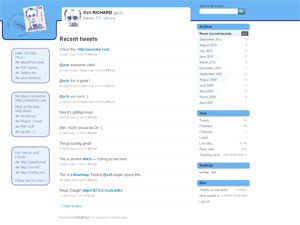
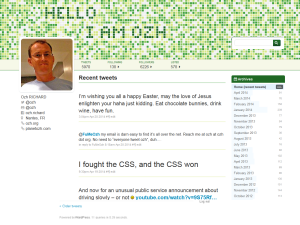
More tweaks. Left to do: responsiveness.

diff --git a/style.css b/style.css
@@ -40,12 +40,10 @@ a img {
     background-size: 100% auto;
     width:100%;
     height:250px;
-    box-shadow:0 0px 2px rgba(0, 0, 0, 0) inset, 0 0px 5px rgba(0, 0, 0, 0.8) inset;
 }
 
 #container {
-  margin:-97px auto 0;
-  padding-top:15px;
+  margin:0 auto;
   max-width:1120px;
 }
 
@@ -60,11 +58,12 @@ a img {
 #sidebar {
   float:right;
   width:220px;
+  margin-top:-140px;
 }
   
 #tweets {
   margin-left: 260px;
-  margin-top: 100px;
+  margin-top: 20px;
 }
 
 #footer {
@@ -93,15 +92,60 @@ a img {
     background:none;
 }
 
-#header:hover {
-    box-shadow:0 0px 2px rgba(0, 0, 0, 0) inset, 0 0px 8px rgba(0, 0, 0, 0.8) inset;
+/* Stat header
+----------------------------------------------- */
+
+#stats-wrap {
+  width:100%;
+  border-bottom:1px solid #44A340;
+  background:#EEF2D6;
+  background:rgba(239, 242, 214, 0.55);
+  height:45px;
+  box-shadow:0 0px 2px rgba(0, 0, 0, 0) inset, 0 0px 1px rgba(0, 0, 0, 0.8) inset;
+}
+
+#stats-header {
+  margin:0 auto;
+  max-width:860px;
+  padding:1px 0 0 260px;
+  list-style:none;  
+  overflow:hidden;
+}
+
+#stats-header li {
+    float:left;
+    margin-right:60px;
+    margin-left:10px;
+    text-align:left;
+}
+
+#stats-header li span {
+    display:block;
+}
+
+#stats-header li span.what {
+    text-transform:uppercase;
+    font-size:11px;
+    color:#1E6823;
+    margin-bottom:-3px;
+}
+
+#stats-header li span.much {
+    text-align:center;
+    font-size:16px;
+}
+
+
+#stats-header li span.much a {
+    color: inherit;
+    padding: 0 3px;
 }
 
 /* User
 ----------------------------------------------- */
 #user {
   width:230px;
-  margin:0px;
+  margin:-150px 0 0;
   float:left;
   line-height:22px;
   padding:10px 10px;
@@ -120,9 +164,9 @@ a img {
     border-radius:10px;
     box-shadow:0 1px 1px rgba(136, 153, 166, 0.35);
     -webkit-transition-duration: 0.8s;
-    -moz-transition-duration: 0.8s;
+    -moz-transition-duration: 0.4s;
     -o-transition-duration: 0.8s;
-    transition-duration: 0.8s;
+    transition-duration: 0.4s;
     -webkit-transition-property: -webkit-transform;
     -moz-transition-property: -moz-transform;
     -o-transition-property: -o-transform;
@@ -135,7 +179,6 @@ a img {
     -moz-transform:rotate(-4deg);
     -o-transform:rotate(-4deg);
 }
-
 
 #user .avatar {
   width:200px;
@@ -163,6 +206,12 @@ a img {
     width:20px;
 }
 
+#user-info li:hover i.fa {
+    color:#aaa;
+    width:17px;
+    padding-left:3px;
+}
+
 #user-realname {
   font-size:24px;
   font-weight:bolder;
@@ -175,11 +224,11 @@ a img {
 #tweets h2 {
   margin:0 0 10px;
   padding-bottom:10px;
-  border-bottom:3px solid #D6E685;
+  border-bottom:1px solid #44A340;
   font-size:24px;
 }
 #tweets .post {
-  margin:20px 0px;
+  margin:40px 0px;
   padding-bottom:10px;
   border-bottom:1px solid #D6E685;
 }
@@ -196,15 +245,6 @@ a img {
   font-size:12px;
   color:#999;
 }
-body.single #tweets .tweet {
-  font:24px;
-  line-height:26px;
-}
-body.single #tweets .post .meta, body.single #tweets .post .meta a {
-  font-size:15px;
-  line-height:26px;
-  padding-top:10px;
-}
 .post:hover .meta a {
   text-decoration:underline;
 }
@@ -212,11 +252,53 @@ body.single #tweets .post .meta, body.single #tweets .post .meta a {
   color:#666;
 }
 
+/* Tweet custom styles depending on content
+----------------------------------------------- */
+.tweet.short.is_no_reply > p {
+    font-size:32px;
+    line-height:40px;
+}
+.tweet.medium.is_no_reply > p {
+    font-size:26px;
+    line-height:32px;
+}
+.tweet.long.is_no_reply > p {
+    font-size:22px;
+    line-height:30px;
+}
+body.single #tweets .tweet {
+  font-size:24px;
+  line-height:26px;
+}
+body.single #tweets .post .meta, body.single #tweets .post .meta a {
+  font-size:15px;
+  line-height:26px;
+  padding-top:10px;
+}
+#tweets span.embed_image_yes {
+    border: 1px solid #8CC665;
+    border-radius: 5px;
+    display: block;
+    padding: 3px;
+    width: 90%;
+    line-height:10px;
+}
+#tweets span.embed_image_yes a:hover {
+    background:none;
+}
+#tweets span.embed_image_yes img {
+    border-radius: 5px;
+    width: 100%;
+}
+#tweets .link_untco_image {
+    display:none;
+}
+
 
 /* Searchform
 ----------------------------------------------- */
 #searchform {
-  margin:0 0 50px;
+  margin:0 0 110px;
   padding:12px 13px;
   border-radius:5px;
   background:white;
@@ -249,7 +331,7 @@ body.single #tweets .post .meta, body.single #tweets .post .meta a {
 }
 
 #searchform:hover .btn {
-    background-color:#8CC665;
+  background-color:#8CC665;
 }
 
 /* Nav
@@ -261,14 +343,15 @@ body.single #tweets .post .meta, body.single #tweets .post .meta a {
 }
 #nav h2 {
 	margin:0;
-	font-size:13px;
+	font-size:15px;
+    line-height:29px;
 	padding:1px 4px 1px 10px;
-	margin-top:20px;
-	margin-bottom:5px;
-	border-radius:5px;
+	margin:20px 0px 5px;
+	border-top-left-radius:5px;
+	border-top-right-radius:5px;
 	color:#fff;
 	background:#1E6823;
-	box-shadow: 2px 2px 3px #aaa;
+    width:210px;
 }
 #nav ul {
 	margin:0;
@@ -328,6 +411,10 @@ body.single #tweets .post .meta, body.single #tweets .post .meta a {
 	background:transparent url("img/li-bg.png") right center no-repeat;
 }
 
+#bleh li a:hover {
+    background:none;
+}
+
 /* Misc
 ----------------------------------------------- */
 .pagination {
@@ -352,7 +439,6 @@ body.single #tweets .post .meta, body.single #tweets .post .meta a {
   font-size:1px;
   line-height:1px;
 }
-
 
 /* Footer
 ----------------------------------------------- */

diff --git a/header.php b/header.php
@@ -13,6 +13,15 @@
 <a href="<?php bloginfo('url'); ?>"></a>
 </div>
 
+<div id="stats-wrap">
+    <ul id="stats-header">
+        <li><span class="what">tweets</span><span class="much"><?php do_action('ozh_ta_total_tweets'); ?></span></li>
+        <li><span class="what">following</span><span class="much"><?php do_action('ozh_ta_total_following'); ?> <a href="https://twitter.com/ozh/following"><i class="fa fa-caret-right"></i></a></span></li>
+        <li><span class="what">followers</span><span class="much"><?php do_action('ozh_ta_total_followers'); ?> <a href="https://twitter.com/ozh/followers"><i class="fa fa-caret-right"></i></a></span></li>
+        <li><span class="what">listed</span><span class="much"><?php do_action('ozh_ta_total_listed'); ?> <a href="https://twitter.com/ozh/memberships"><i class="fa fa-caret-right"></i></a></span></li>
+    </ul>
+</div>
+
 <!-- !BEGIN #container -->
 <div id="container">
 
@@ -26,12 +35,13 @@
     </div>
     <div id="user-info">
         <ul>
-            <li id="user-realname">Ozh RICHARD</li>
-            <li id="username"><i class="fa fa-twitter"></i>@<a href="https://twitter.com/ozh">ozh</a></li>
-            <li id="username"><i class="fa fa-github-alt"></i>@<a href="https://github.com/ozh">ozh</a></li>
-            <li id="username"><i class="fa fa-facebook-square"></i><a href="https://www.facebook.com/ozh.richard">ozh.richard</a></li>
-            <li id="user-loc"><i class="fa fa-map-marker"></i>Nantes, FR</li>
-            <li id="user-url"><i class="fa fa-link"></i><a href="http://ozh.org">ozh.org</a></li>
+            <li class="user-realname">Ozh RICHARD</li>
+            <li class="username"><i class="fa fa-twitter"></i>@<a href="https://twitter.com/ozh">ozh</a></li>
+            <li class="username"><i class="fa fa-github-alt"></i>@<a href="https://github.com/ozh">ozh</a></li>
+            <li class="username"><i class="fa fa-facebook-square"></i><a href="https://www.facebook.com/ozh.richard">ozh.richard</a></li>
+            <li class="user-loc"><i class="fa fa-map-marker"></i>Nantes, FR</li>
+            <li class="user-url"><i class="fa fa-link"></i><a href="http://ozh.org">ozh.org</a></li>
+            <li class="user-url"><i class="fa fa-link"></i><a href="http://planetozh.com">planetozh.com</a></li>
         </ul>
     </div>
 </div>

diff --git a/footer.php b/footer.php
@@ -7,7 +7,11 @@
 <span class="reset">&nbsp;</span>
 
 <div id="footer">
-  <p>Powered by <a href="http://wordpress.org/"><i class="fa fa-hand-o-right"></i> WordPress</a> and <a href="http://planetozh.com/blog/my-projects/ozh-tweet-archiver-backup-twitter-with-wordpress/"><i class="fa fa-hand-o-right"></i> Ozh' Tweet Archiver</a>. <?php echo get_num_queries(); ?> queries in <?php timer_stop(true,2); ?> seconds.</p>
+  <p>Powered by
+  <a href="http://wordpress.org/"><i class="fa fa-hand-o-right"></i> WordPress</a>
+  with <a href="http://planetozh.com/blog/my-projects/ozh-tweet-archiver-backup-twitter-with-wordpress/"><i class="fa fa-hand-o-right"></i> Ozh' Tweet Archiver</a>.
+  and <a href="http://planetozh.com/blog/my-projects/ozh-tweet-archive-theme-for-wordpress/"><i class="fa fa-hand-o-right"></i> Ozh' Tweet Archive Theme</a>.
+  <?php echo get_num_queries(); ?> queries in <?php timer_stop(true,2); ?> seconds.</p>
 </div>
 <?php wp_footer(); ?>
 

diff --git a/functions.php b/functions.php
@@ -2,17 +2,20 @@
 
 if ( function_exists('register_sidebar') )
     register_sidebar();
-	
-// highlights the current nav item for monthly archive listings
-function get_archives_link_mod ( $link_html ) {
-  preg_match ("/href='(.+?)'/", $link_html, $url);
-  $requested = "http://{$_SERVER['SERVER_NAME']}{$_SERVER['REQUEST_URI']}";
-  if ($requested == $url[1]) {
-    $link_html = str_replace('<li>', '<li class="current">', $link_html);
-  }
-  return $link_html;
+
+add_action( 'wp_enqueue_scripts', function(){ wp_enqueue_script( 'jquery' ); } );
+
+function otat_get_tweet_style() {
+    $title    = strlen( get_the_title() );
+    $is_reply = ozh_ta_is_reply_or_not( false );
+    if( $title > 100 ) {
+        $style = 'long';
+    } elseif ( $title > 50 ) {
+        $style = 'medium';
+    } else {
+        $style = 'short';
+    }
+    return "$style $is_reply";
 }
-add_filter("get_archives_link", "get_archives_link_mod");
 
 
-?>

diff --git a/index.php b/index.php
@@ -8,8 +8,8 @@
 
 <?php while (have_posts()) : the_post(); ?>
   <div <?php post_class() ?> id="post-<?php the_ID(); ?>">
-    <div class="tweet">
-      <?php the_content(); ?>
+    <div class="tweet <?php echo otat_get_tweet_style(); ?>">
+        <?php the_content(); ?>
     </div>
     <p class="meta"><?php do_action( 'ozh_ta_in_reply_to_tweet' ) ?> <?php the_time('g:ia M j Y') ?> <a href="<?php do_action( 'ozh_ta_tweet_link' ); ?>" title="Original on Twitter">#</a> <a href="<?php the_permalink() ?>" title="Permalink" rel="bookmark">&#0182;</a> <?php edit_post_link('edit', '', ''); ?></p>
   </div>

diff --git a/sidebar.php b/sidebar.php
@@ -30,9 +30,10 @@
 	<?php wp_tag_cloud('format=list'); ?>
 	
 	<h2><i class="fa fa-info-circle"></i> Bleh</h2>
-	<ul class="block">
+	<ul id="bleh" class="block">
 	<li>Tweets archive every <span class="count"><?php global $ozh_ta; echo ozh_ta_seconds_to_words( $ozh_ta['refresh_interval'] ); ?></span></li>
 	<li>Next update in <span class="count"><?php echo ozh_ta_next_update_in(); ?></span></li>
+	<li><a href="<?php bloginfo('url'); ?>/wp-admin/">Admin</a></li>
 	<li><?php wp_loginout(); ?></li>
 	</ul>
 

diff --git a/search.php b/search.php
@@ -4,7 +4,7 @@
 
 <!-- !BEGIN #tweets -->
 <div id="tweets">
-<h2>Search results for <?php the_search_query(); ?> <?php if( $paged > 1 ) echo "&laquo; page $paged"; ?></h2>
+<h2>Search results for &laquo;<?php the_search_query(); ?>&raquo; <?php if( $paged > 1 ) echo "&laquo; page $paged"; ?></h2>
 
 <?php while (have_posts()) : the_post(); ?>
   <div <?php post_class() ?> id="post-<?php the_ID(); ?>">
